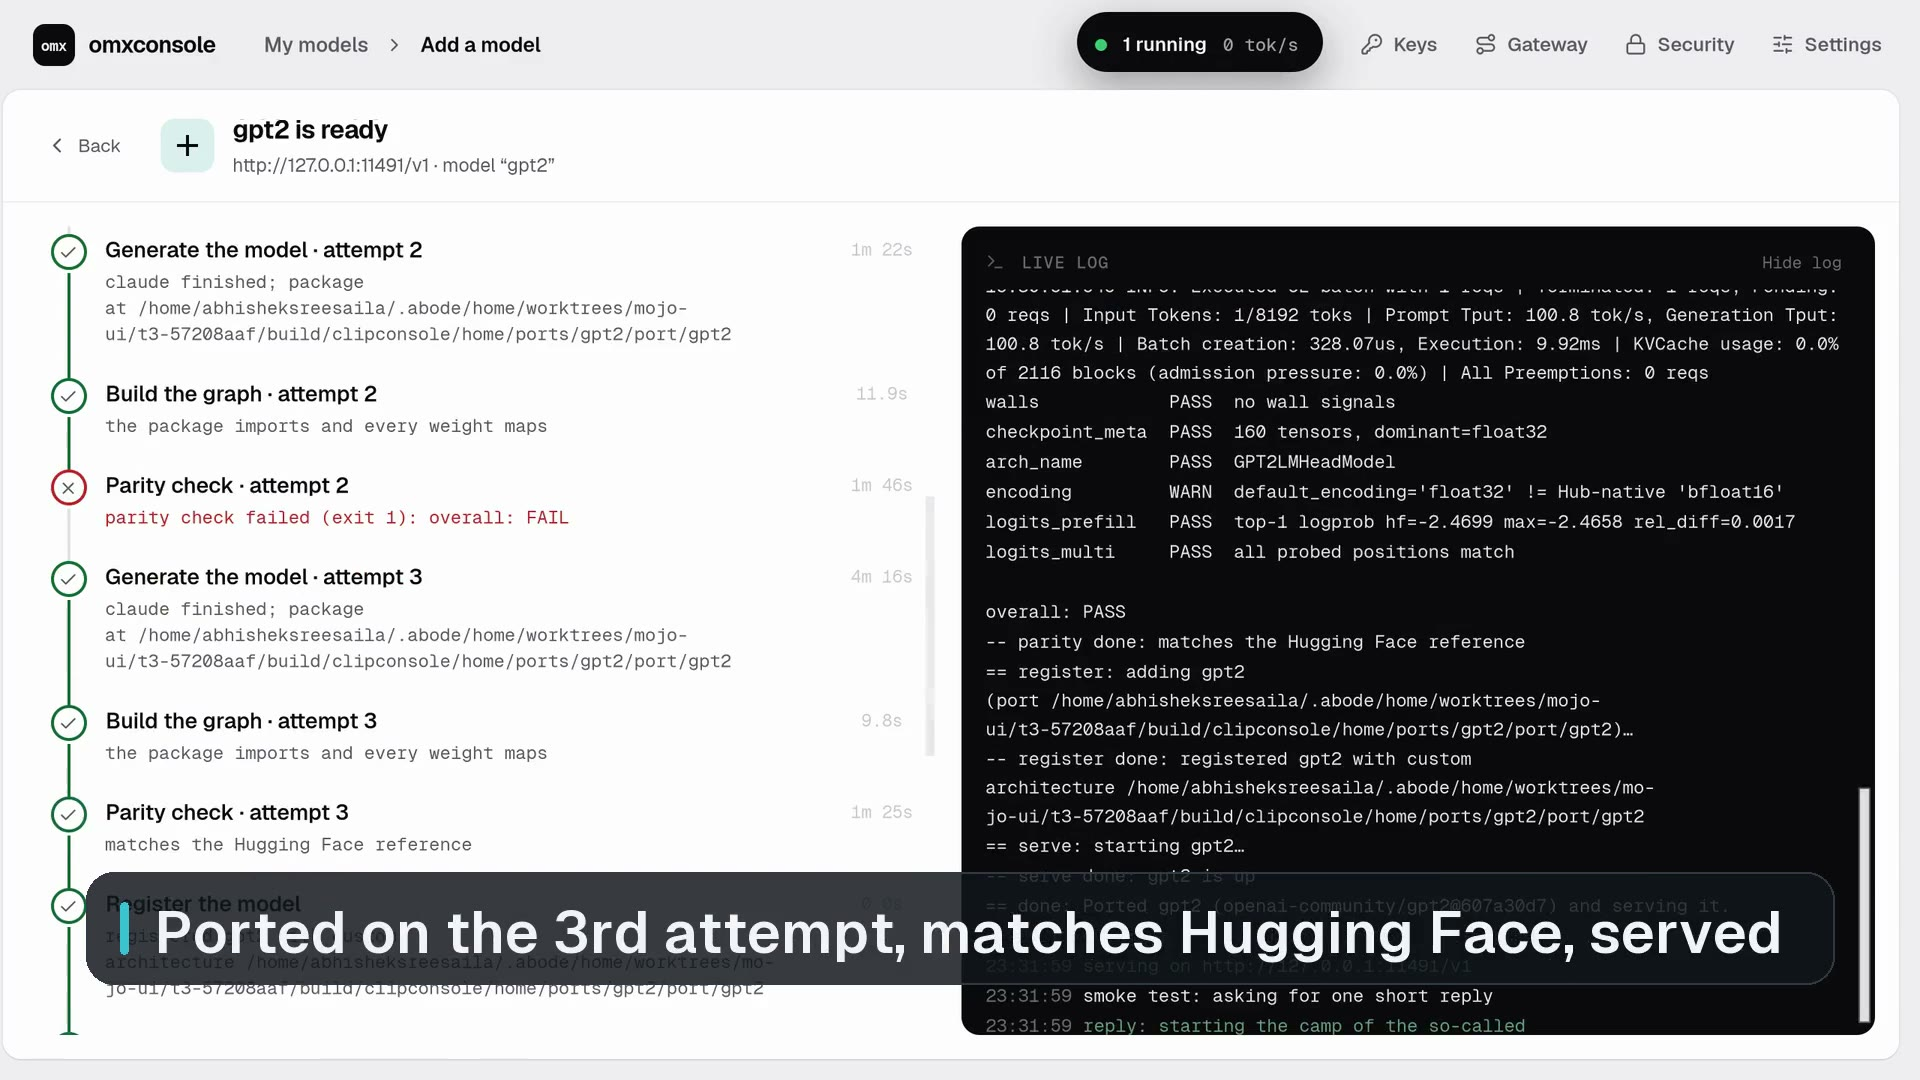
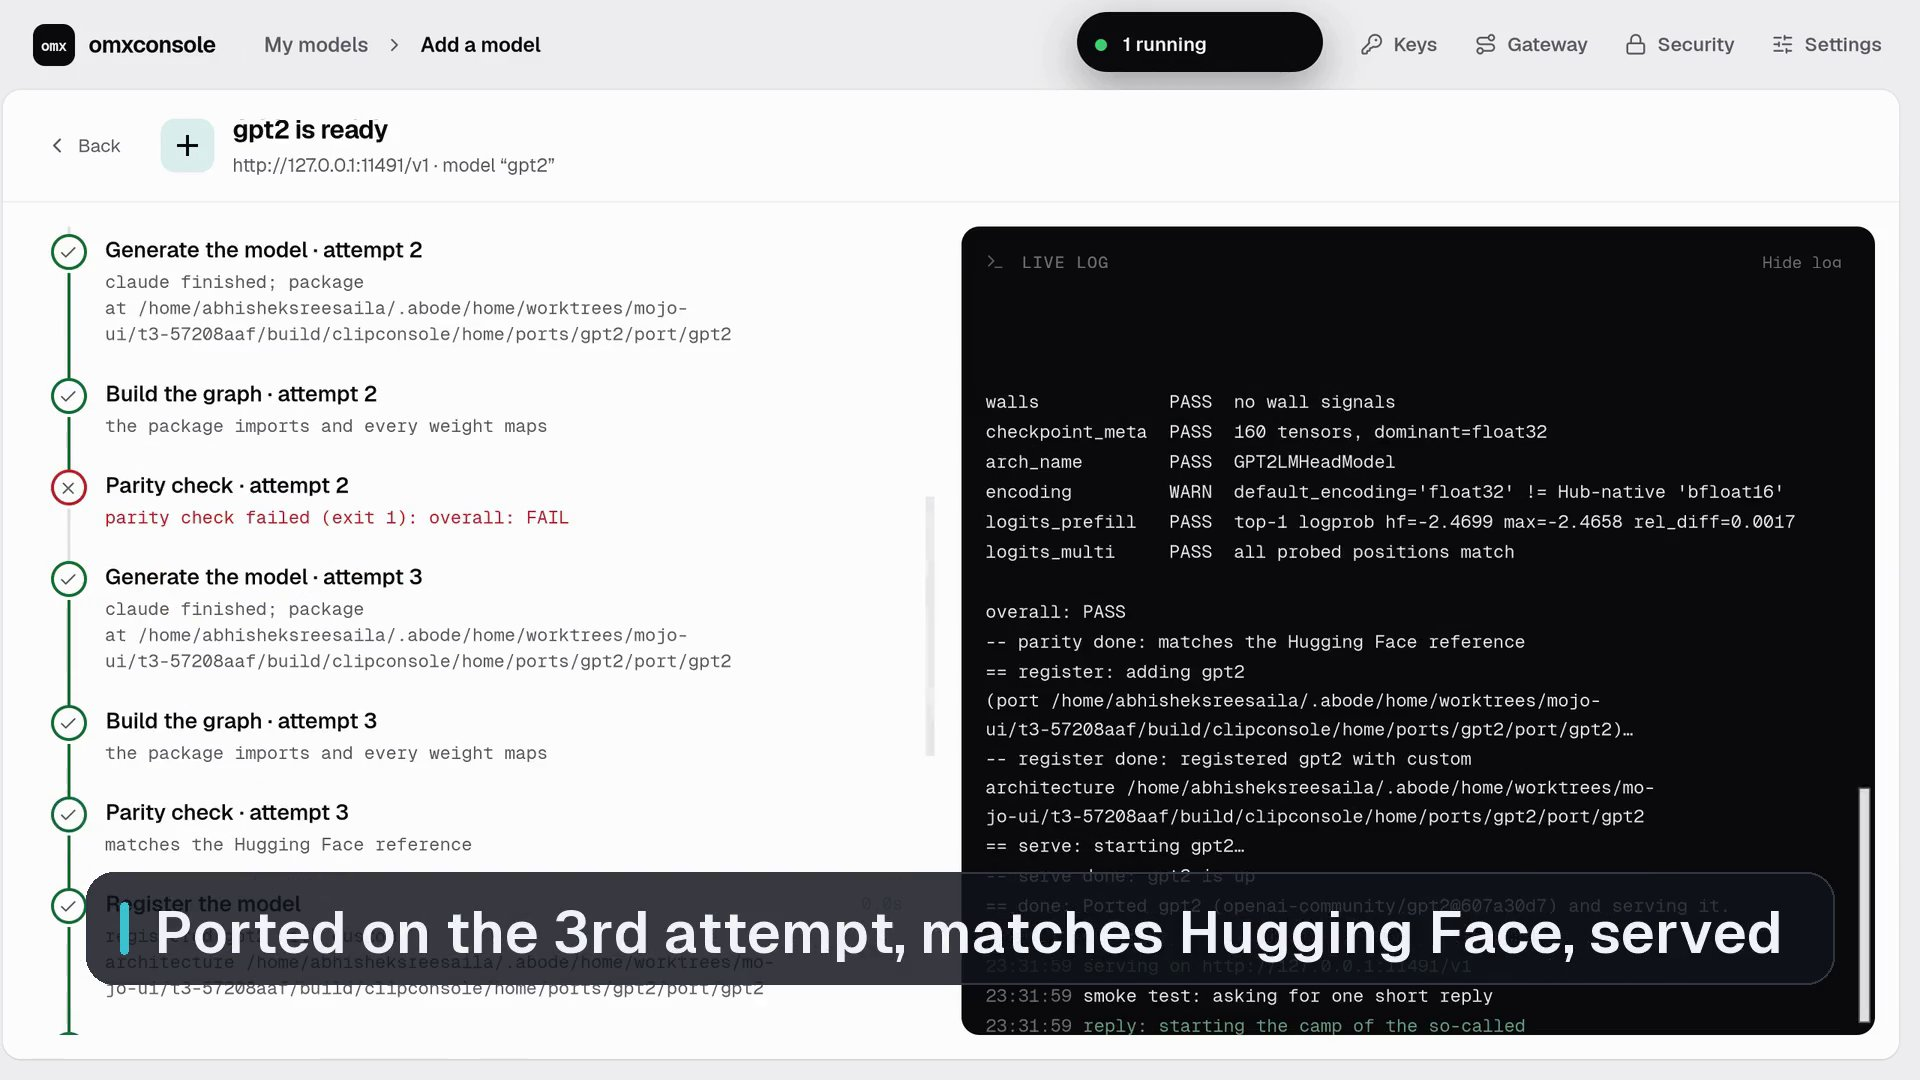
omxconsole page: no throughput or step times in the port still, no duration claim in the edges (reviewer)

Changed region(s): [[0.5, 0.275, 0.9688, 0.3667], [0.6562, 0.0306, 0.6875, 0.0611]]

diff --git a/docs/omxconsole.html b/docs/omxconsole.html
@@ -215,7 +215,7 @@ scripts/build.sh console linux &amp;&amp; build/console/linux/console</pre>
       <div>It needs MAX; when MAX isn't installed, the app opens and says how to get it.</div>
       <div>On the Mac it has opened and started its service on GitHub's macOS runners. Serving a model on Apple silicon through MAX hasn't been tried yet.</div>
       <div>The app has no chat window of its own yet: you talk to a model through the endpoint, from any OpenAI client.</div>
-      <div>Porting and HTTPS are <b>beta</b>. A port takes minutes, not seconds, and bigger models than 3 billion parameters haven't ported yet.</div>
+      <div>Porting and HTTPS are <b>beta</b>. Models bigger than 3 billion parameters haven't ported yet.</div>
     </div>
     <div class="ctas rv"><a class="cta" href="https://github.com/abhisheksreesaila/omxcode">Get it on GitHub</a><a class="more" href="gallery/">Back to the gallery</a></div>
   </div>
